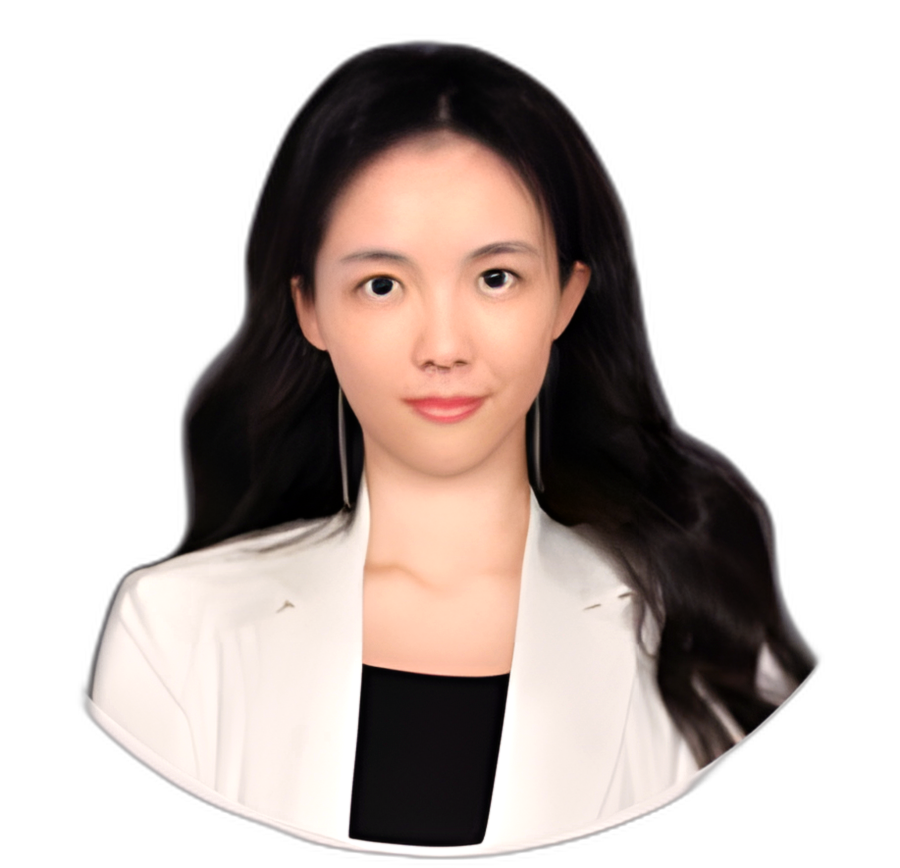
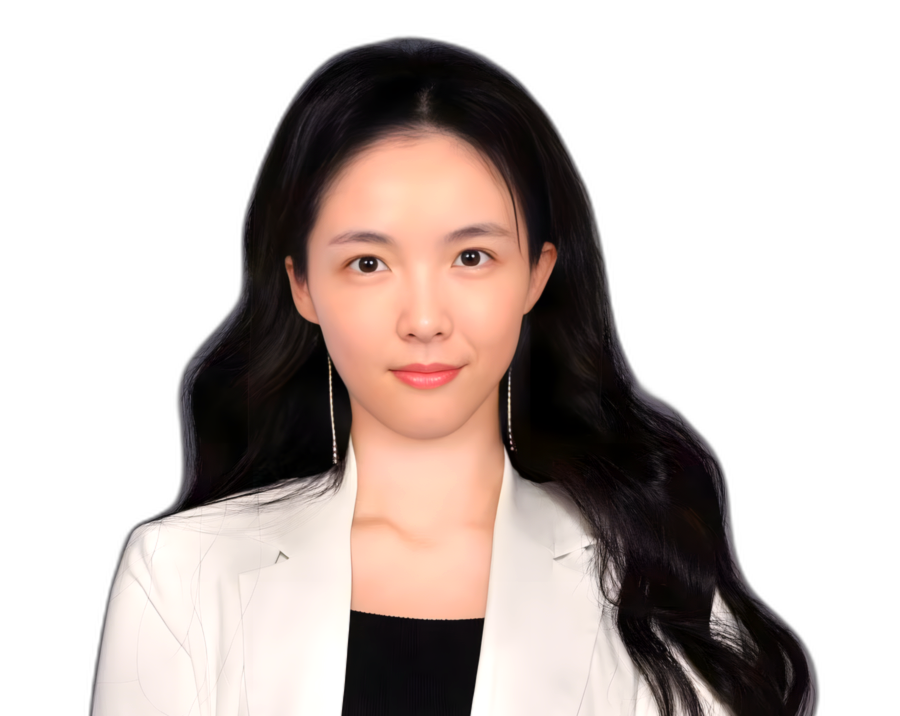
Swap Nicole's portrait for a high-res 1280x1280 source
Previous nicole.png was 290x272 inside a circular frame — limited
detail even after upscaling. New nicole.jpg is a proper studio
portrait at 1280x1280. Re-ran the full Real-ESRGAN x4plus + rembg
(u2net_human_seg) + crop + warm white-balance + gentle gaussian
pipeline. Output is a much crisper 900x716 cutout.

en page now points at the new nicole.jpg; the old low-res
nicole.png is removed.

diff --git a/en/index.html b/en/index.html
@@ -518,7 +518,7 @@
 
           <article class="team-member">
             <div class="team-photo">
-              <img src="../assets/team/nicole.png" alt="Nicole Yang — buyer's agent" loading="lazy" />
+              <img src="../assets/team/nicole.jpg" alt="Nicole Yang — buyer's agent" loading="lazy" />
             </div>
             <div class="team-bio">
               <h3>Nicole Yang</h3>
